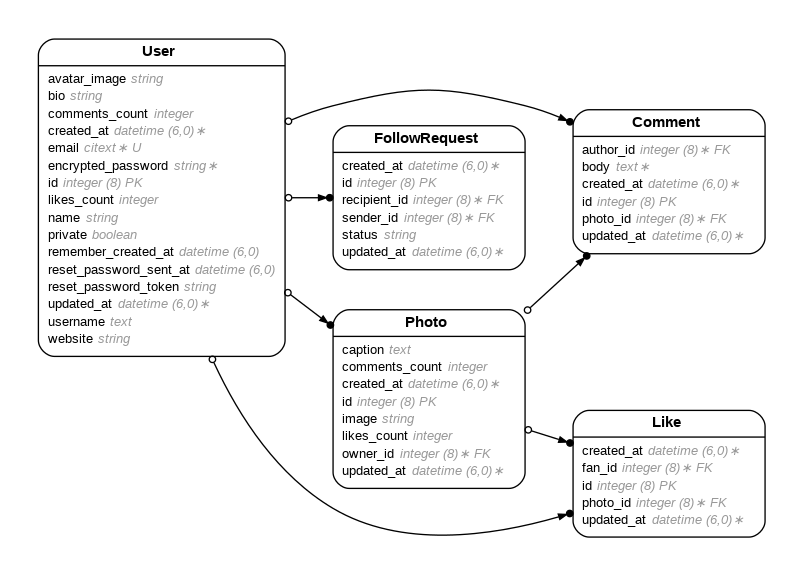
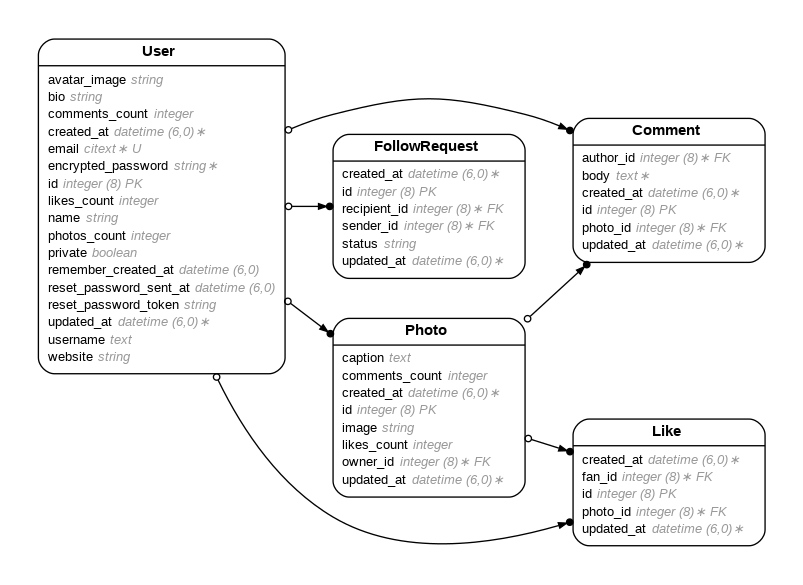
Added counter caches

diff --git a/spec/models/user_spec.rb b/spec/models/user_spec.rb
@@ -3,20 +3,19 @@
 # Table name: users
 #
 #  id                     :bigint           not null, primary key
-#  avatar_image           :string           default("avatar_placeholder.png")
+#  avatar_image           :string
 #  bio                    :string
 #  comments_count         :integer          default(0)
 #  email                  :citext           default(""), not null
 #  encrypted_password     :string           default(""), not null
-#  integer                :integer          default(0)
 #  likes_count            :integer          default(0)
 #  name                   :string
 #  photos_count           :integer          default(0)
-#  private                :boolean          default(TRUE)
+#  private                :boolean
 #  remember_created_at    :datetime
 #  reset_password_sent_at :datetime
 #  reset_password_token   :string
-#  username               :citext           not null
+#  username               :text
 #  website                :string
 #  created_at             :datetime         not null
 #  updated_at             :datetime         not null

diff --git a/db/schema.rb b/db/schema.rb
@@ -10,7 +10,7 @@
 #
 # It's strongly recommended that you check this file into your version control system.
 
-ActiveRecord::Schema[8.0].define(version: 2025_04_06_191235) do
+ActiveRecord::Schema[8.0].define(version: 2025_04_06_195743) do
   # These are extensions that must be enabled in order to support this database
   enable_extension "citext"
   enable_extension "pg_catalog.plpgsql"
@@ -70,6 +70,7 @@ ActiveRecord::Schema[8.0].define(version: 2025_04_06_191235) do
     t.integer "comments_count", default: 0
     t.datetime "created_at", null: false
     t.datetime "updated_at", null: false
+    t.integer "photos_count", default: 0
     t.index ["email"], name: "index_users_on_email", unique: true
     t.index ["reset_password_token"], name: "index_users_on_reset_password_token", unique: true
     t.index ["username"], name: "index_users_on_username", unique: true

diff --git a/spec/models/comment_spec.rb b/spec/models/comment_spec.rb
@@ -3,7 +3,7 @@
 # Table name: comments
 #
 #  id         :bigint           not null, primary key
-#  body       :text
+#  body       :text             not null
 #  created_at :datetime         not null
 #  updated_at :datetime         not null
 #  author_id  :bigint           not null
@@ -11,8 +11,7 @@
 #
 # Indexes
 #
-#  index_comments_on_author_id  (author_id)
-#  index_comments_on_photo_id   (photo_id)
+#  index_comments_on_photo_id  (photo_id)
 #
 # Foreign Keys
 #

diff --git a/app/models/user.rb b/app/models/user.rb
@@ -10,6 +10,7 @@
 #  encrypted_password     :string           default(""), not null
 #  likes_count            :integer          default(0)
 #  name                   :string
+#  photos_count           :integer          default(0)
 #  private                :boolean
 #  remember_created_at    :datetime
 #  reset_password_sent_at :datetime

diff --git a/app/models/comment.rb b/app/models/comment.rb
@@ -19,6 +19,6 @@
 #  fk_rails_...  (photo_id => photos.id)
 #
 class Comment < ApplicationRecord
-  belongs_to :author, class_name: "User"
-  belongs_to :photo
+  belongs_to :author, class_name: "User", counter_cache: true
+  belongs_to :photo, counter_cache: true
 end

diff --git a/app/models/like.rb b/app/models/like.rb
@@ -19,6 +19,6 @@
 #  fk_rails_...  (photo_id => photos.id)
 #
 class Like < ApplicationRecord
-  belongs_to :fan, class_name: "User"
-  belongs_to :photo
+  belongs_to :fan, class_name: "User", counter_cache: true
+  belongs_to :photo, counter_cache: true
 end

diff --git a/app/models/photo.rb b/app/models/photo.rb
@@ -20,6 +20,6 @@
 #  fk_rails_...  (owner_id => users.id)
 #
 class Photo < ApplicationRecord
-  belongs_to :owner, class_name: "User"
+  belongs_to :owner, class_name: "User", counter_cache: true
   has_many :comments
 end

diff --git a/db/migrate/20250406195743_add_photos_count_to_users.rb b/db/migrate/20250406195743_add_photos_count_to_users.rb
@@ -1,0 +1,5 @@
+class AddPhotosCountToUsers < ActiveRecord::Migration[8.0]
+  def change
+    add_column :users, :photos_count, :integer, default: 0
+  end
+end
